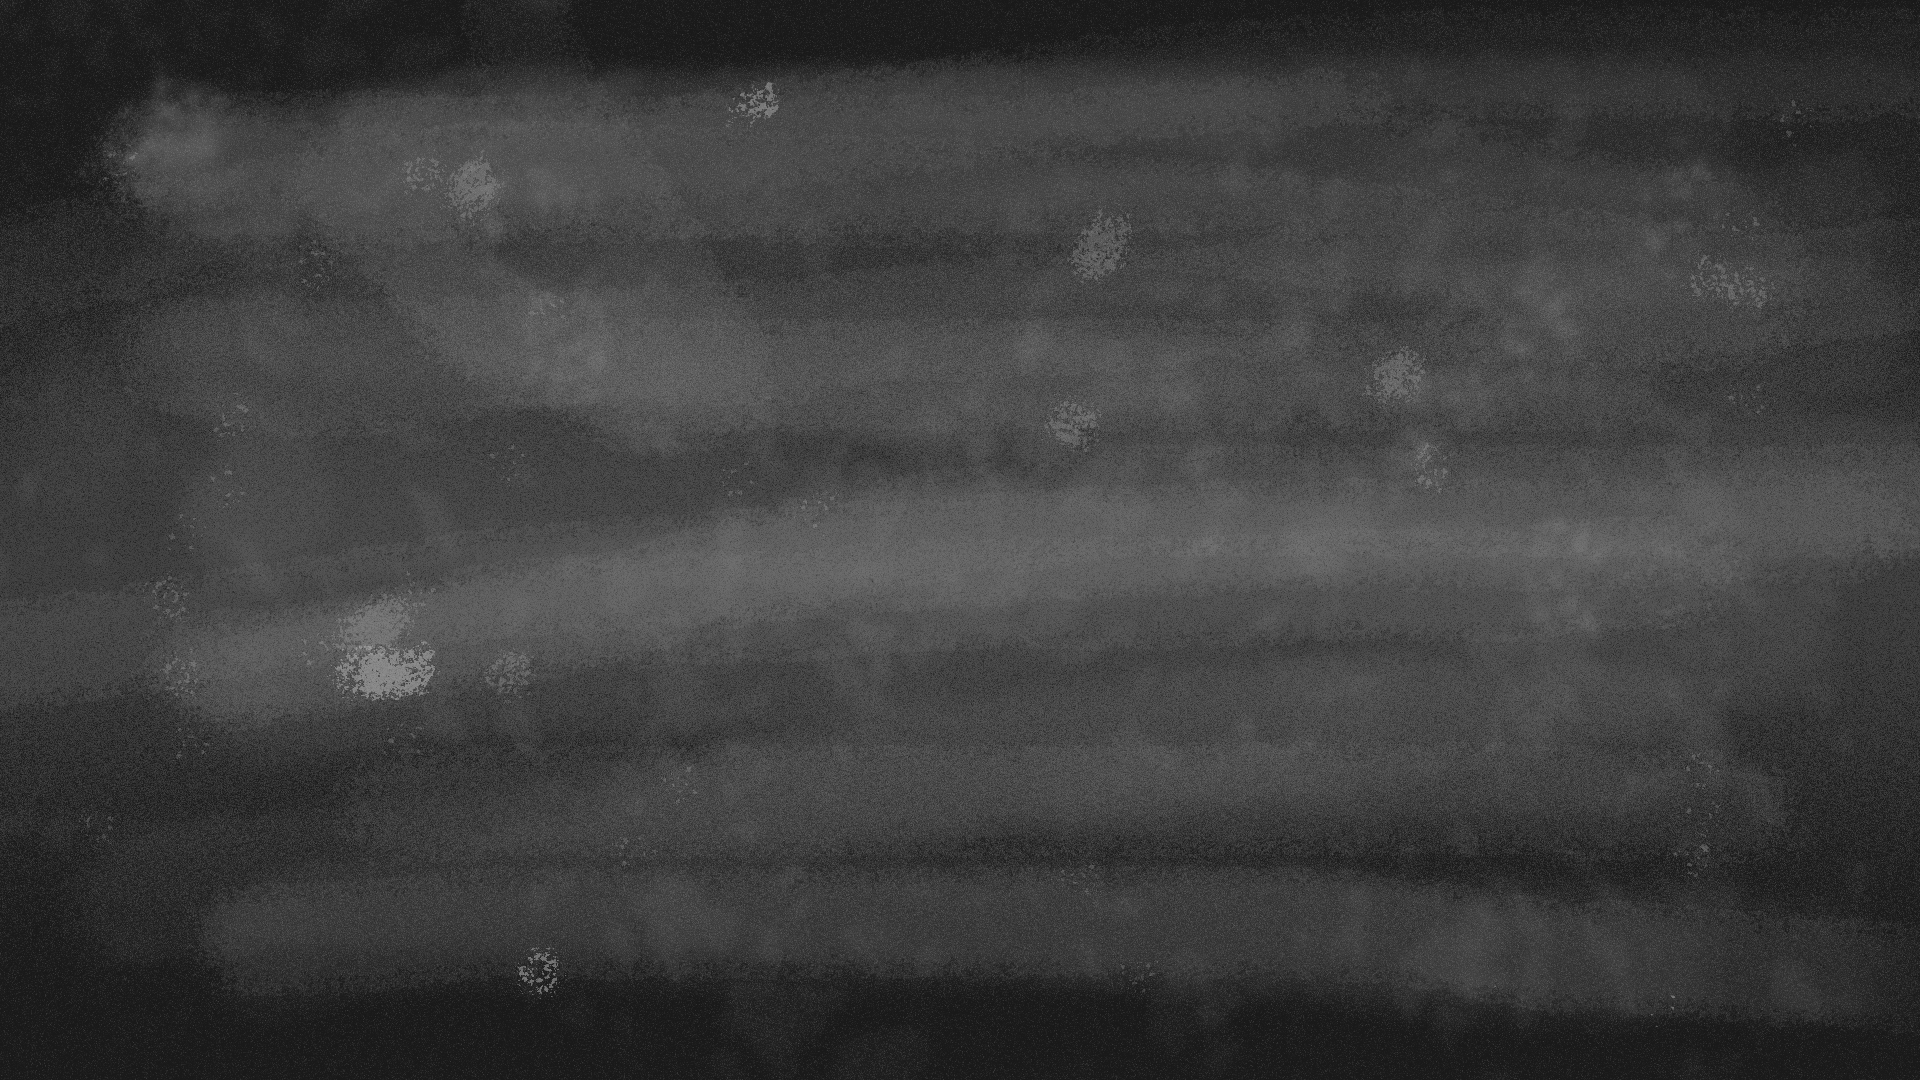
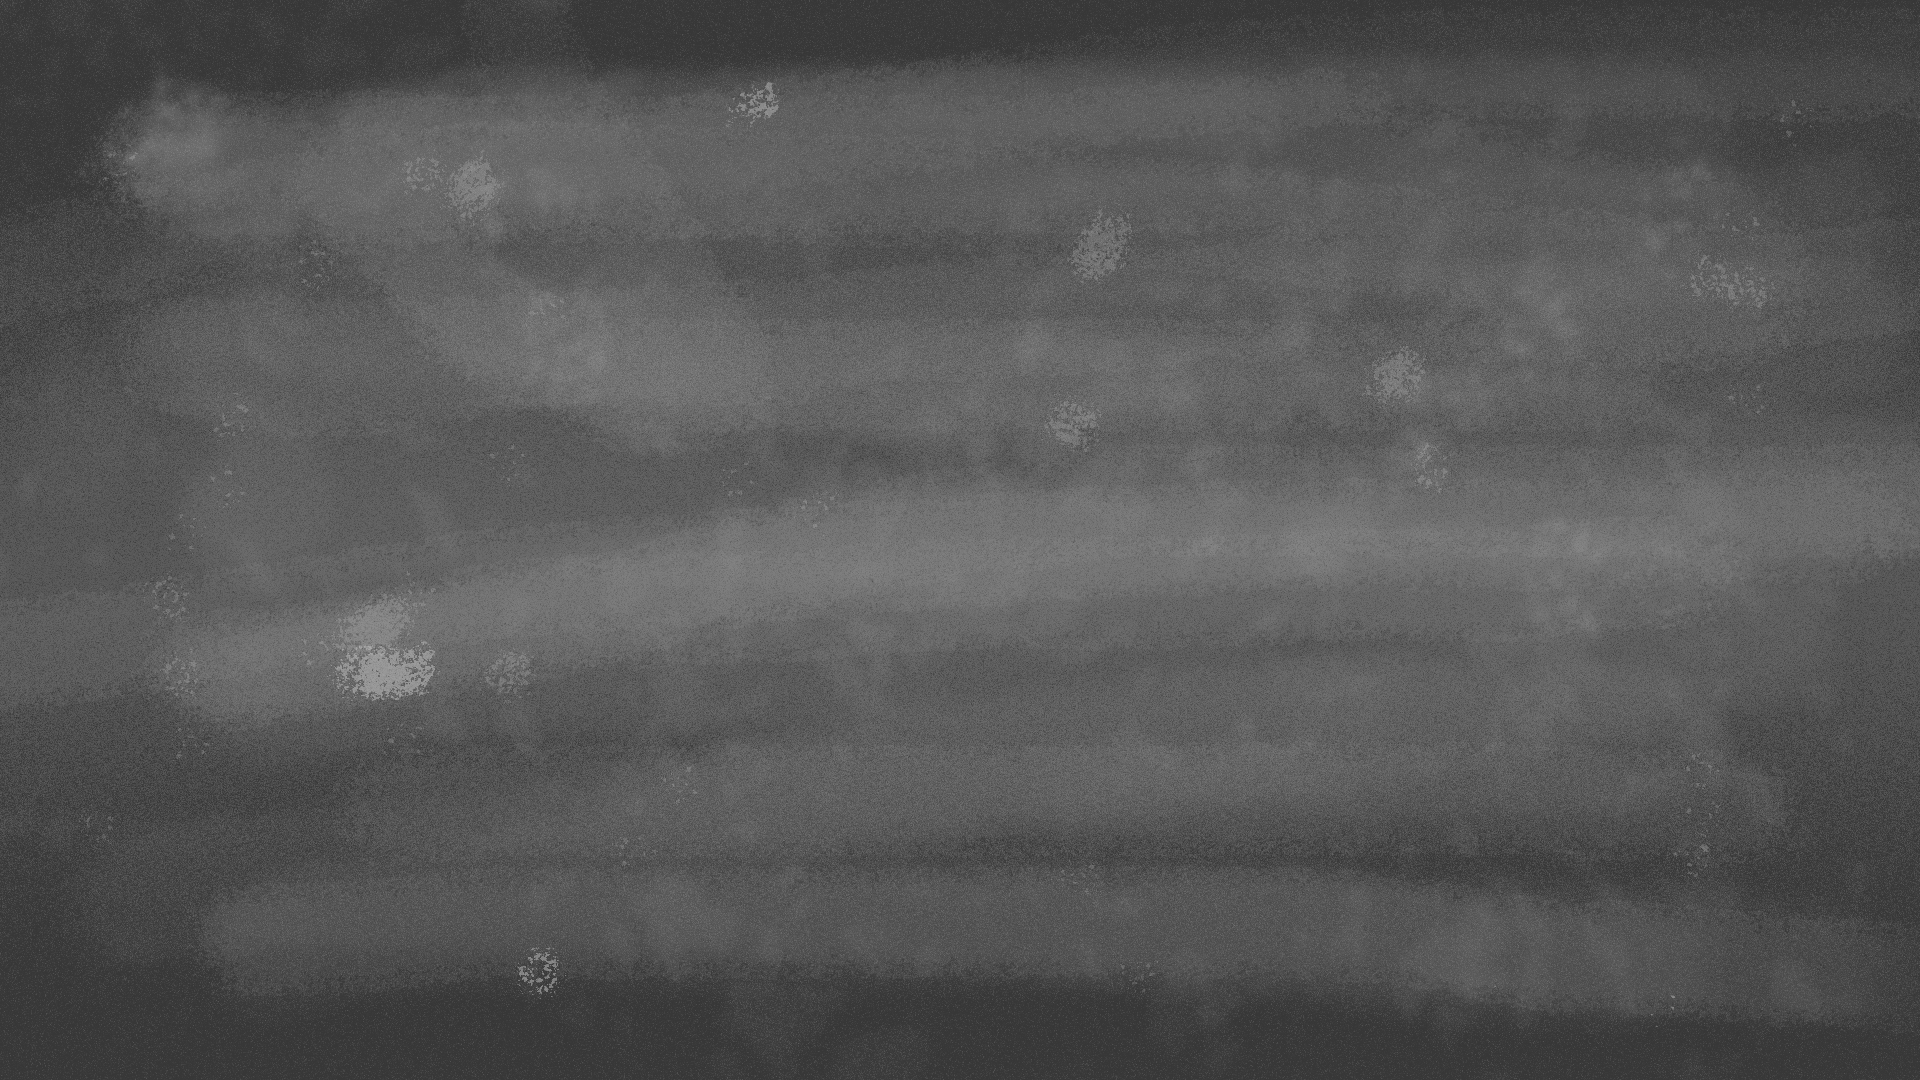
Agregado de Claude

diff --git a/docs/CLAUDE.md b/docs/CLAUDE.md
@@ -1,0 +1,302 @@
+# IDEMODEL — Contexto de Sesión
+Última actualización: 27/05/2026
+Con: Claude Sonnet
+
+---
+
+## EL PROYECTO
+IdeModel es una tool para generar modelos integrales de funcionamiento de ideas. Permite desarrollar, analizar y compartir ideas de manera visual, definiendo relaciones cualicuantitativas entre elementos. El resultado es un sistema representado en un grafo. Las variaciones pueden desplegarse en una línea de tiempo.
+Aspiración central: ser una externalización de un modelo mental individual que, una vez expresado, sirve como punto de partida para construir un modelo mental colectivo.
+URL: idemodel.app
+Autor: Guille (arquitecto, no IT)
+
+---
+
+## STACK
+| Capa | Tecnología |
+|---|---|
+| Frontend | HTML + CSS + JavaScript Vanilla |
+| Motor gráfico | Cytoscape.js |
+| Backend | Supabase + PostgreSQL |
+
+Sin frameworks: decisión arquitectónica de control total de UI.
+
+---
+
+## ARQUITECTURA — PRINCIPIOS CONGELADOS
+
+- **Edges derivados**: no se persisten. Se derivan runtime desde atributos del nodo (parent, concept, formulas)
+- **Modelo desacoplado del renderer**: el modelo existe independientemente de Cytoscape
+- **ID ≠ Label**: ID técnico estable, Label humano editable
+- **Persistencia real**: Supabase/Postgres con auth, queue, API layer
+
+---
+
+## ESTRUCTURA DE ARCHIVOS CLAVE
+
+```
+docs/js/
+  api.js              ← ARCHIVO VIEJO (aún activo, contiene queueNodeData)
+  ui.js               ← MAPEO REAL de datos Supabase → Cytoscape (línea ~367)
+  graph.js            ← renderGraph, eventos, workspace
+  engine.js           ← handleData, state, fórmulas
+
+  graph/
+    graph-dom-badges.js   ← posicionamiento de badges DOM
+    graph-labels.js       ← labels HTML overlay (title/value/unit)
+    graph-style.js        ← estilos Cytoscape
+    graph-events.js       ← eventos del grafo
+
+  ui/
+    node-style-ui.js  ← panel de style (shape/color/size chips)
+    ui-chips.js       ← createInlineSelectChip, createColorChip
+    settings-panel.js ← ⭐ sistema de chips flotantes (Settings + Time + Logo)
+
+  persistence/
+    queue.js          ← queueNodeData (versión nueva, en migración)
+    auth.js
+    api.js
+
+docs/css/
+  settings-panel.css  ← estilos del sistema de chips flotantes
+  ui-chips.css        ← estilos base de chips (height, border-radius, colores)
+```
+
+---
+
+## MIGRACIÓN ARQUITECTÓNICA EN CURSO
+⚠️ El proyecto está a mitad de migración de arquitectura monolítica → modular.
+Conviven dos mundos:
+
+- `docs/js/api.js` — archivo viejo, aún cargado y activo
+- `docs/js/persistence/queue.js` — archivo nuevo modular
+
+**Problema concreto**: `queueNodeData` existe en AMBOS archivos. El browser carga el de `api.js` como activo. Por eso cualquier campo nuevo debe agregarse en ambos hasta que se complete la migración.
+
+---
+
+## TABLA NODES — CAMPOS RELEVANTES
+| Campo | Tipo | Notas |
+|---|---|---|
+| id | uuid | PK |
+| model_id | uuid | FK |
+| label | text | nombre visible |
+| shape | text | ellipse, rectangle, etc |
+| color | text | rgb o hex |
+| alpha | numeric | opacidad |
+| size_px | numeric | tamaño en px (campo activo) |
+| size_type | text | "fixed" o "by unit" |
+| x | numeric | posición |
+| y | numeric | posición |
+| parent | uuid | FK a otro nodo |
+| unit_id | uuid | FK a units |
+
+⚠️ El campo viejo era `size` — ya no existe en la tabla. Ahora es `size_px`.
+
+---
+
+## TABLA MODELS — CAMPOS RELEVANTES
+| Campo | Tipo | Notas |
+|---|---|---|
+| id | uuid | PK |
+| name | text | visible en top-ui, editable inline |
+| background_color | text | color de fondo del grafo |
+| background_image_url | text | URL pública de Supabase Storage |
+| version | text | editable desde logo panel |
+| periods | integer | cantidad de períodos |
+| time_unit | text | hour/day/week/month/quarter/semester/year/moment |
+| starting_date | date | fecha inicio |
+| comments | text | notas del modelo |
+| updated_at | timestamp | last review |
+
+---
+
+## TABLA UNITS
+| Campo | Tipo | Notas |
+|---|---|---|
+| id | uuid | PK |
+| model_id | uuid | FK |
+| name | text | e.g. kg, $, m² |
+| min_sz | integer | tamaño mínimo en px |
+| max_sz | integer | tamaño máximo en px |
+| min_value | numeric | valor mínimo del rango |
+| max_value | numeric | valor máximo del rango |
+
+---
+
+## FLUJO DE DATOS AL CARGAR
+
+```
+Supabase → api.js:loadData() → window.handleData(data)
+→ ui.js:handleData() [línea ~320]
+→ graphNodes = data.nodes.map(n => { data: { id, label, shape, color, alpha, size: n.size_px, size_px: n.size_px, size_type: n.size_type ... } })
+→ window.renderGraph({ nodes: graphNodes, edges: graphEdges })
+→ graph.js:renderGraph() → Cytoscape
+```
+
+Globals expuestos al cargar:
+- `window.MODEL_ID` — uuid del modelo activo
+- `window.MODEL_DATA` — objeto completo de la tabla models
+- `window._currentModel` — idem (ambos deben mantenerse sincronizados, ver nota abajo)
+- `window.MODEL_AUTHOR` — user_id del owner (primeros 8 chars)
+- `window.UNITS_DATA` — array de units del modelo
+- `window.UNITS_MAP` — map id→unit
+
+---
+
+## GLOBALS — NOTA CRÍTICA DE SINCRONIZACIÓN ⚠️
+
+`window.MODEL_DATA` y `window._currentModel` son dos objetos separados que deben mantenerse sincronizados. `ui.js` setea `_currentModel` al cargar. `saveModelField` en `settings-panel.js` actualiza ambos:
+
+```javascript
+async function saveModelField(field, value) {
+  // ...update Supabase...
+  if (!window.MODEL_DATA) window.MODEL_DATA = {};
+  window.MODEL_DATA[field] = value;
+  // Mantener _currentModel sincronizado
+  if (!window._currentModel) window._currentModel = {};
+  window._currentModel[field] = value;
+}
+```
+
+Si se agrega algún panel o chip que lea datos del modelo en runtime, siempre usar `window._currentModel` y asegurarse que `saveModelField` lo actualice.
+
+---
+
+## SISTEMA DE CHIPS FLOTANTES (settings-panel.js)
+
+### Concepto
+Sin contenedor visible. Los chips flotan sobre el grafo, apilados desde el botón que los activa. Mismo lenguaje visual que los badges de nodo.
+
+### Tres paneles
+
+**⚙ Settings** (botón `#settings-btn`, bottom-left) — chips suben hacia arriba:
+- STYLE: Background color (`createColorChip` sin alpha), Background image (→ sub-panel)
+- VIEW: Parent link, Concept link, Formula link (on/off toggle), View level (−N+), Show hidden (on/off)
+- UNITS: Units (→ sub-panel compacto)
+
+**⏱ Time** (botón `#time-circle`, top-right) — chips bajan hacia abajo:
+- Periods (editable inline)
+- Time unit (dropdown con opciones: hour/day/week/month/quarter/semester/year/moment)
+- Starting date (mini calendar custom)
+
+**💡 Logo** (botón `#logo-btn`, top-left) — chips bajan hacia abajo:
+- FILE: New, Open, Close, Share, Export (action chips — console.log por ahora)
+- MODEL: Author (readonly), Version (editable), Started on (date picker), Last review (date picker), Comments (expande textarea)
+
+### Sub-paneles
+Se abren a la derecha del chip que los activa. Usan clase `shape-dropdown sp-subpanel-wrap` — mismo fondo oscuro semitransparente. Posición con `clamp` para no salirse de pantalla.
+
+### Constantes ajustables
+```javascript
+const GAP     = 8;   // px entre chips
+const GAP_BTN = 20;  // px entre botón y primer chip
+```
+
+### Ajuste de tamaño de chips
+- Altura: `ui-chips.css` → `.ui-chip { height: 30px }`
+- Fuente: `ui-chips.css` → `.ui-chip-label { font-size: 12px }` y `.ui-chip-value { font-size: 12px }`
+
+---
+
+## BACKGROUND IMAGE — IMPLEMENTACIÓN ACTUAL ✅
+
+### Bucket Supabase
+- Nombre: `model-backgrounds`
+- Tipo: PUBLIC
+- MIME types permitidos: `image/jpeg`, `image/png`
+- Límite: 2MB
+
+### Estrategia de naming
+Cada imagen se sube con nombre único basado en timestamp:
+```
+{modelId}/background_{Date.now()}.{ext}
+```
+Esto evita cualquier problema de caché de CDN o browser — la URL es siempre diferente.
+
+### Flujo de upload
+1. Lista todos los archivos del modelo en el bucket (`storage.list(modelId)`)
+2. Los borra todos (`storage.remove(toRemove)`)
+3. Sube el nuevo con nombre único
+4. Guarda la URL pública en `models.background_image_url`
+5. Aplica al grafo con `_applyBgImage(url)`
+6. Actualiza `window._currentModel.background_image_url` vía `saveModelField`
+
+### Aplicación al cargar (ui.js ~línea 431)
+```javascript
+if (data.model?.background_image_url) {
+  const baseUrl  = data.model.background_image_url.split('?')[0];
+  const freshUrl = `${baseUrl}?t=${Date.now()}`;
+  graph.style.backgroundImage    = `url(${freshUrl})`;
+  graph.style.backgroundSize     = 'cover';
+  graph.style.backgroundPosition = 'center';
+}
+```
+
+### ⚠️ Live Server
+Al desarrollar con Live Server, hacer **hard reset** (Cmd+Shift+R / Ctrl+Shift+R) después de modificar JS para asegurarse que tome el código nuevo.
+
+---
+
+## SISTEMA DE BADGES
+Los badges son elementos DOM (no Cytoscape) posicionados sobre el grafo via `#badge-layer`.
+
+Tipos: style (pincel), relations, comments, timeline
+
+**Posicionamiento — ESTADO FINAL:**
+- X: anclados al right del texto más ancho del label + `OFFSET_X_MODEL * zoom`
+- Y: centro del grupo alineado al centro vertical del labelEl → `labelRect.top + labelRect.height / 2 + (20 * zoom)`
+- Tamaño escalado con zoom: `BADGE_SIZE_MODEL * zoom`
+
+```javascript
+const BADGE_SIZE_MODEL = 10;
+const BADGE_GAP_MODEL  = 2;
+const OFFSET_X_MODEL   = 10;
+```
+
+---
+
+## SISTEMA DE LABELS
+Labels son overlays HTML centrados en el nodo:
+```javascript
+el.style.left = pos.x + 'px';
+el.style.top  = pos.y + 'px';
+el.style.transform = `translate(-50%, -50%) scale(${zoom})`;
+```
+Estructura: `.label-content > .title-slot > .title`, `.value-slot > .value`, `.unit-slot > .unit`
+
+---
+
+## SISTEMA DE STYLE PANEL (node-style-ui.js)
+Panel que aparece al clickear el badge de pincel. Chips:
+- `shape` → dropdown (ellipse/round-rectangle/rectangle/diamond)
+- `color` → `createColorChip` con alpha
+- `size` → dropdown fixed/by unit + campo px inline
+
+---
+
+## PENDIENTE / PRÓXIMA SESIÓN
+
+- [ ] Funcionalidad real de los toggles VIEW:
+  - Parent link, Concept link, Formula link → filtrar edges en Cytoscape
+  - View level → filtrar nodos por nivel
+  - Show hidden → mostrar/ocultar nodos hidden
+- [ ] Background color → aplicar al fondo del grafo (¿ya funciona?)
+- [ ] File actions en logo panel (New, Open, Close, Share, Export)
+- [ ] Unit selector en nodo → label de unit como dropdown que lista units del modelo (con `+` que abre settings → Units si no hay ninguna)
+- [ ] "By unit" en size badge → calcular tamaño proporcional al valor del nodo dentro del rango de su unit
+- [ ] Migración completa `api.js` → `persistence/` (deuda técnica, no urgente)
+
+---
+
+## PROTOCOLO DE SESIÓN
+Al arrancar: zip repo actualizado + este documento
+Al cerrar: actualizar este documento + commitear repo
+
+---
+
+## NOTAS DE GUILLE
+- Arquitecto, no IT. Viene trabajando con ChatGPT como programador.
+- Muy enfocado en perfección visual — la simplicidad y coherencia del UI es estratégica para la adopción.
+- El proyecto tiene base conceptual sólida y arquitectura bien pensada.
+- Rocío es su señora ☕